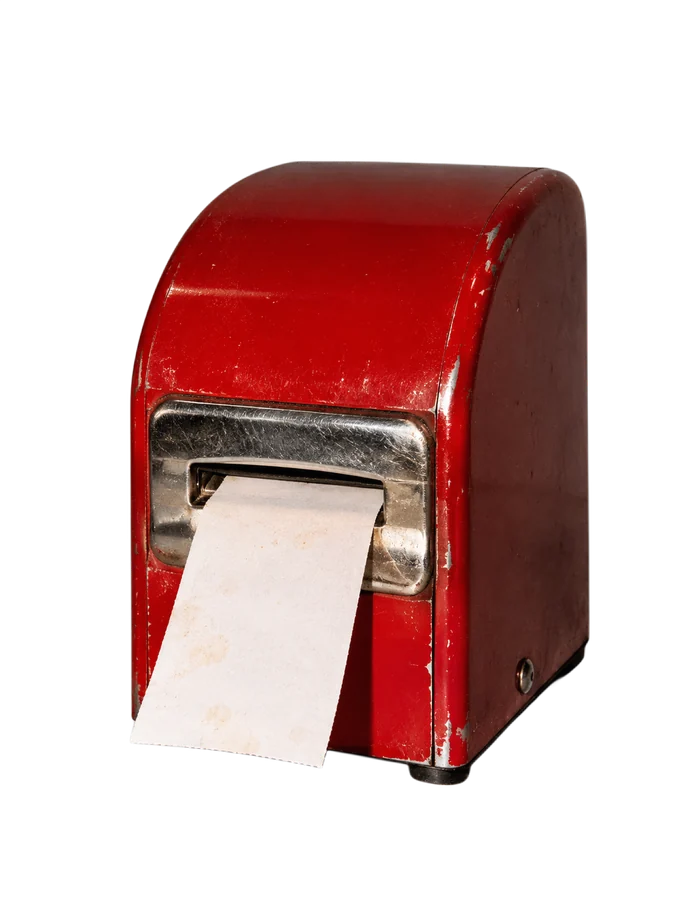
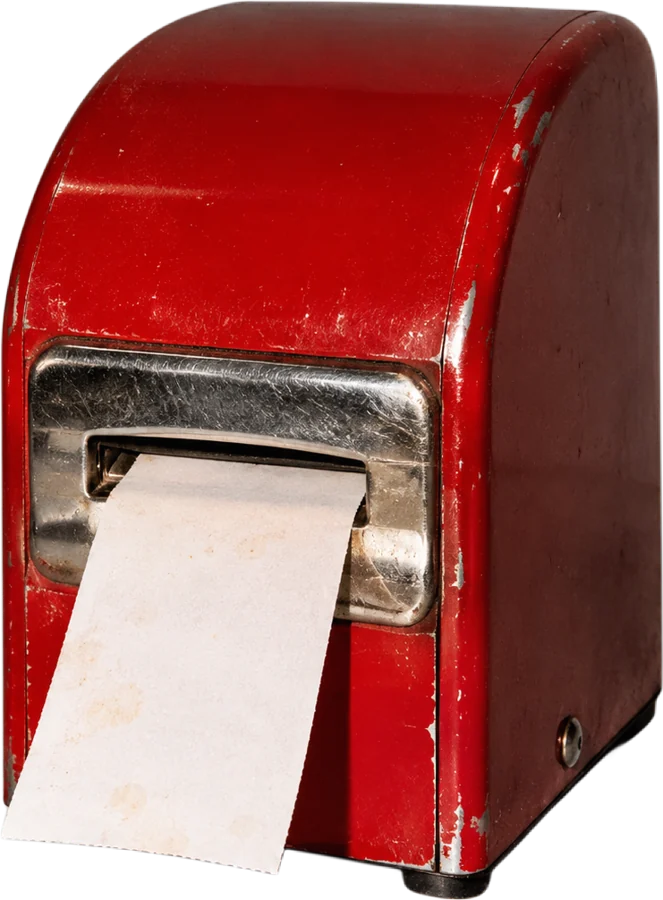
Tighter hero, menu and table, smaller dispenser
Claude-Session: https://claude.ai/code/session_01WbtRzhgL5VXSv96dk2bG6E

diff --git a/app/globals.css b/app/globals.css
@@ -42,11 +42,11 @@ button { font: inherit; color: inherit; background: none; border: 0; cursor: poi
 /* ===== NAV: rail + comanda tickets ===== */
 .nav { position: fixed; inset: 0 0 auto 0; z-index: 50; pointer-events: none; transition: transform .3s ease; }
 .nav.is-hidden { transform: translateY(-140px); }
-.nav__rail { position: absolute; top: 96px; left: 0; right: 0; height: 12px; background: var(--inchiostro); transition: top .25s ease; }
-.nav__lang { position: absolute; top: 40px; right: clamp(20px, 6.9vw, 100px); pointer-events: auto; display: flex; gap: 6px; font: 700 15px var(--f-sans); }
+.nav__rail { position: absolute; top: 56px; left: 0; right: 0; height: 12px; background: var(--inchiostro); transition: top .25s ease; }
+.nav__lang { position: absolute; top: 16px; right: clamp(20px, 6.9vw, 100px); pointer-events: auto; display: flex; gap: 6px; font: 700 15px var(--f-sans); }
 .nav__lang button[aria-pressed='false'] { opacity: 0.5; }
 .nav__logo { display: none; }
-.tickets { position: absolute; top: 104px; left: var(--g); display: flex; gap: clamp(40px, 6.9vw, 100px); transition: top .25s ease; }
+.tickets { position: absolute; top: 64px; left: var(--g); display: flex; gap: clamp(40px, 6.9vw, 100px); transition: top .25s ease; }
 .nav.is-scrolled .nav__rail { top: 0; height: 8px; }
 .nav.is-scrolled .tickets { top: 8px; }
 .nav.is-scrolled .nav__lang { top: 18px; right: 30px; background: var(--carta); color: var(--inchiostro); padding: 6px 10px; border: 1px solid var(--inchiostro); }
@@ -93,13 +93,13 @@ button { font: inherit; color: inherit; background: none; border: 0; cursor: poi
 
 /* ===== sections (home) ===== */
 section { position: relative; }
-.hero { min-height: 1000px; height: 100vh; max-height: 1100px; background: var(--carta); overflow: hidden; }
-.hero__gnam { position: absolute; left: 52px; bottom: 100px; font-size: clamp(118px, 20.8vw, 300px); color: var(--pomodoro); }
-.hero__plate { position: absolute; right: 70px; bottom: 140px; width: clamp(220px, 23.6vw, 340px); aspect-ratio: 1; }
+.hero { min-height: 640px; height: 100vh; max-height: 1000px; background: var(--carta); overflow: hidden; }
+.hero__gnam { position: absolute; left: 52px; bottom: 80px; font-size: min(20.8vw, 30vh, 300px); color: var(--pomodoro); }
+.hero__plate { position: absolute; right: 70px; bottom: 120px; width: min(23.6vw, 32vh, 340px); aspect-ratio: 1; }
 .hero__plate img { width: 100%; height: 100%; object-fit: contain; }
-.hero__cap { position: absolute; right: 70px; bottom: 96px; color: var(--pomodoro); font-size: 34px; }
-.hero__sub { position: absolute; left: 64px; bottom: 44px; }
-.hero__scroll { position: absolute; right: 120px; bottom: 44px; opacity: 0.6; }
+.hero__cap { position: absolute; right: 70px; bottom: 76px; color: var(--pomodoro); font-size: 30px; }
+.hero__sub { position: absolute; left: 64px; bottom: 34px; }
+.hero__scroll { position: absolute; right: 120px; bottom: 34px; opacity: 0.6; }
 
 .receipt-sec { background: var(--pomodoro); color: var(--carta); padding: 60px var(--g) 100px 80px; display: grid; grid-template-columns: 1fr 440px; gap: 40px; align-items: start; }
 .receipt-sec__words { position: relative; }
@@ -116,9 +116,9 @@ section { position: relative; }
 .polaroid--1 { width: 180px; right: -40px; top: 60px; transform: rotate(-6deg); }
 .polaroid--2 { width: 170px; right: 0; top: 520px; transform: rotate(5deg); }
 
-.table { min-height: 1000px; background: #c43b2b url('/img/texture-tablecloth.webp') center/cover; padding: 60px var(--g); }
+.table { background: #c43b2b url('/img/texture-tablecloth.webp') center/cover; padding: 60px var(--g); }
 .table__label { background: var(--carta); display: inline-block; padding: 4px 8px; }
-.plates { display: grid; grid-template-columns: repeat(4, 1fr); gap: 40px; margin-top: 80px; }
+.plates { display: grid; grid-template-columns: repeat(4, 1fr); gap: 40px; margin-top: 50px; padding-bottom: 20px; }
 .plate { display: block; text-align: left; color: var(--inchiostro); }
 .plate:nth-child(even) { margin-top: 120px; }
 .plate__img { width: 100%; max-width: 260px; aspect-ratio: 1; transition: transform 0.3s ease, opacity 0.3s ease; }
@@ -206,8 +206,8 @@ section { position: relative; }
 .footer__legal { display: flex; flex-wrap: wrap; gap: 8px 40px; margin-top: 20px; }
 
 /* ===== menu page ===== */
-.menu { min-height: 100vh; background: var(--c); color: var(--ink); transition: background .3s, color .3s; display: grid; grid-template-columns: 500px 1fr; gap: 60px; padding: 220px var(--g) 80px 60px; }
-.menu__list { position: sticky; top: 220px; align-self: start; }
+.menu { min-height: 100vh; background: var(--c); color: var(--ink); transition: background .3s, color .3s; display: grid; grid-template-columns: 500px 1fr; gap: 60px; padding: 90px var(--g) 80px 60px; }
+.menu__list { position: sticky; top: 90px; align-self: start; }
 .menu__course { display: flex; align-items: baseline; gap: 26px; margin-bottom: 20px; opacity: .35; }
 .menu__course[aria-selected='true'] { opacity: 1; }
 .menu__course .black { font-size: clamp(36px, 7.2vw, 104px); }
@@ -234,7 +234,7 @@ section { position: relative; }
 /* ===== prenota ===== */
 .prenota { background: var(--pomodoro); min-height: 100vh; padding: 130px var(--g) 80px; }
 .prenota__grid { display: grid; grid-template-columns: 1fr 560px; gap: 60px; align-items: start; }
-.dispenser { display: block; width: 420px; max-width: 100%; position: relative; margin-top: 40px; }
+.dispenser { display: block; width: 210px; max-width: 100%; position: relative; margin-top: 16px; }
 .dispenser img { width: 100%; }
 .dispenser__ticket { position: absolute; right: -60px; bottom: 20px; background: var(--carta); padding: 14px 20px; transform: rotate(4deg); transition: transform .4s cubic-bezier(.3,1.6,.5,1); }
 .dispenser.is-pulled .dispenser__ticket { transform: rotate(8deg) translateY(40px); }
@@ -402,7 +402,7 @@ section { position: relative; }
   .prenota { padding: 130px 20px 60px; }
   .prenota__grid { grid-template-columns: 1fr; gap: 30px; }
   .dispenser { width: 150px; margin-top: 20px; }
-  .dispenser__ticket { right: -170px; bottom: 30px; }
+  .dispenser__ticket { right: -100px; bottom: 30px; }
   .form { padding: 20px; }
   .row2 { grid-template-columns: 1fr; gap: 0; }
   .orders__grid { grid-template-columns: 1fr; gap: 16px; }
